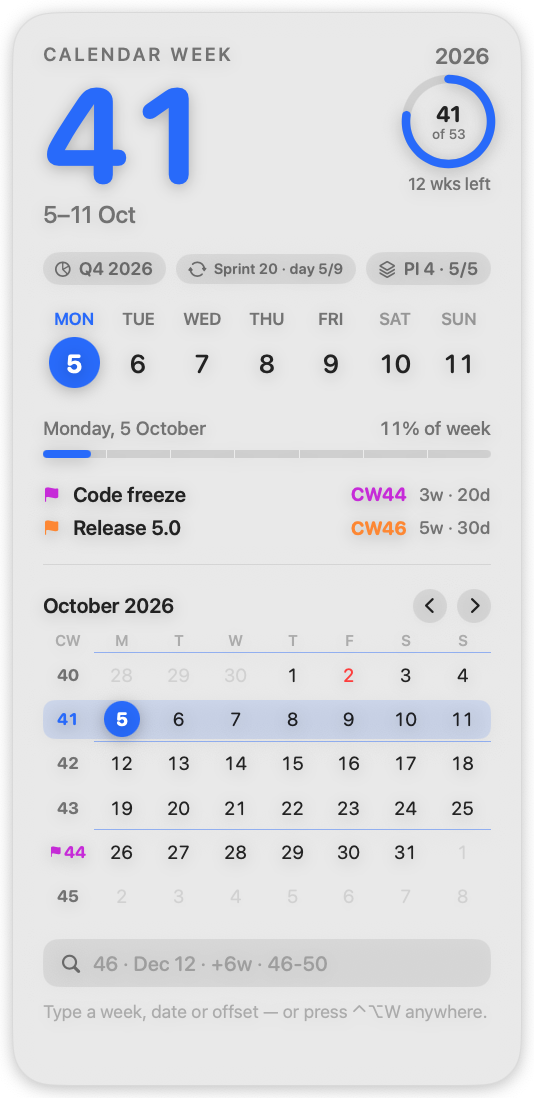
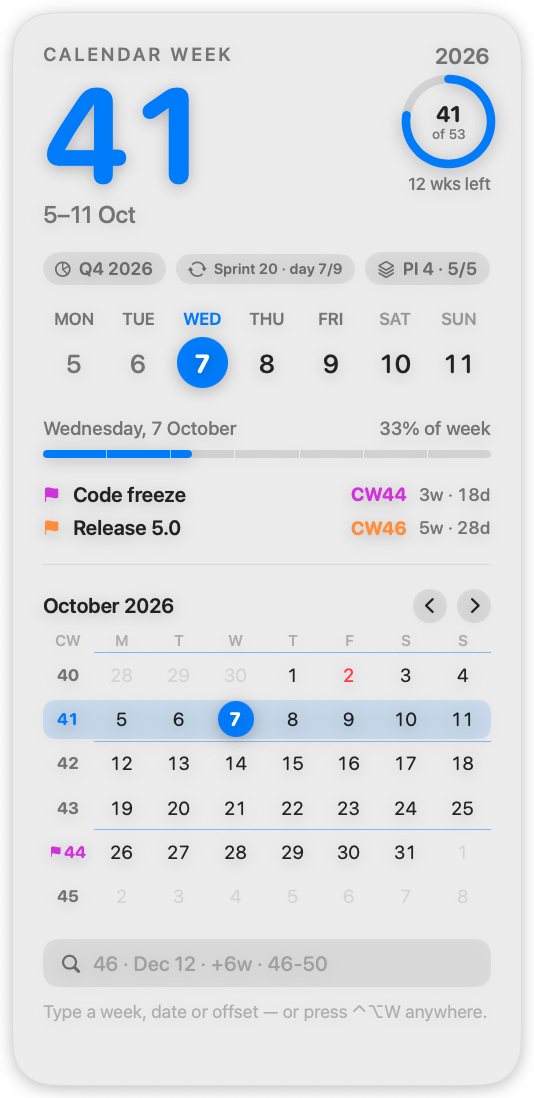
Site: neutral placeholders + og tags; auto-refresh screenshots on release
index.html no longer hard-codes CW41 for crawlers and link previews; JS
fills in the live week. scripts/screenshots.sh re-captures widget and
Quick Finder from the release build with sample data relative to today,
restoring user settings afterwards; ship.sh runs it on every release.

Claude-Session: https://claude.ai/code/session_01NvtfN9p7197Eio1TC2onEc

diff --git a/docs/index.html b/docs/index.html
@@ -1,5 +1,9 @@
 <title>Weekmark</title>
 <meta name="description" content="Weekmark keeps the calendar week on your Mac desktop and answers “when is CW46?” from any app.">
+<meta property="og:title" content="Weekmark — any calendar week, one keystroke away">
+<meta property="og:description" content="A macOS widget and CW lookup for teams that plan in calendar weeks. Free, notarized, no tracking.">
+<meta property="og:image" content="https://rockykusuma.github.io/weekmark/assets/widget.png">
+<meta name="twitter:card" content="summary_large_image">
 <link rel="preconnect" href="https://fonts.googleapis.com">
 <link rel="preconnect" href="https://fonts.gstatic.com" crossorigin>
 <link rel="stylesheet" href="https://fonts.googleapis.com/css2?family=Big+Shoulders+Display:wght@600;800;900&family=Figtree:wght@400;500;600;700&family=JetBrains+Mono:wght@400;600&display=swap">
@@ -204,14 +208,14 @@ footer { padding-block: 40px 56px; color: var(--ink-3); font-size: .85rem; displ
           <p class="eyebrow">Right now it is</p>
           <div class="today">
             <span class="cw-label">CW</span>
-            <span class="cw-big num" id="cwBig">41</span>
+            <span class="cw-big num" id="cwBig">—</span>
             <div class="today-meta">
-              <strong id="cwRange">5–11 Oct</strong>
-              <span id="cwOf">Week 41 of 53</span>
+              <strong id="cwRange">Monday to Sunday</strong>
+              <span id="cwOf">ISO 8601 week number</span>
             </div>
           </div>
           <div class="weekbar" id="weekbar" aria-hidden="true"></div>
-          <div class="weekbar-label"><span id="dayName">Monday</span><span id="weekPct" class="num">10% of the week</span></div>
+          <div class="weekbar-label"><span id="dayName">This week</span><span id="weekPct" class="num"></span></div>
 
           <h1>Any calendar week, one keystroke away.</h1>
           <p class="lede">Weekmark keeps the week number on your Mac desktop and answers “when is CW46?” from any app, with working days, holidays, sprints and milestones included.</p>
@@ -241,7 +245,7 @@ footer { padding-block: 40px 56px; color: var(--ink-3); font-size: .85rem; displ
 <section class="year" aria-labelledby="yearTitle">
   <div class="wrap">
     <div class="year-head">
-      <h2 id="yearTitle">2026 has 53 weeks</h2>
+      <h2 id="yearTitle">Every week of the year</h2>
       <p id="yearSub">Click any week to look it up.</p>
     </div>
     <div class="strip-scroll"><div class="strip" id="strip"></div></div>
@@ -257,7 +261,7 @@ footer { padding-block: 40px 56px; color: var(--ink-3); font-size: .85rem; displ
       <p>Release trains, sprint reviews, “we’ll ship it in CW46”. Weekmark keeps that vocabulary on screen and does the date maths for you.</p>
     </div>
     <div class="showcase">
-      <img class="shot-widget" src="assets/widget.png" alt="The Weekmark widget showing calendar week 41 of 2026, Q4, Sprint 20 day 5 of 9, PI 4, two milestones and an October month grid with week numbers">
+      <img class="shot-widget" src="assets/widget.png" alt="The Weekmark widget showing the calendar week, quarter, sprint and PI chips, upcoming milestones and a month grid with week numbers">
       <div class="features">
         <div class="feature"><span class="tag">⌃⌥W</span><h3>Quick Finder</h3><p>Look up a week, date, range or countdown from any app. Press ⏎ to copy “CW46 (9–15 Nov)” into Slack or Jira.</p></div>
         <div class="feature"><span class="tag">MILESTONES</span><h3>Countdowns that count working days</h3><p>Pin “Release 5.0 → CW46” and see 5 weeks · 30 working days left. Milestone weeks are flagged in the calendar.</p></div>

diff --git a/RELEASING.md b/RELEASING.md
@@ -21,8 +21,11 @@ Add `--dry-run` to see the checks and the plan without changing anything.
 4. **Publishes** the GitHub release `v<version>` with the DMG and your notes.
 5. **Updates the Homebrew tap** ([rockykusuma/homebrew-weekmark](https://github.com/rockykusuma/homebrew-weekmark)):
    version and sha256 in `Casks/weekmark.rb`.
-6. **Pushes the update feed** last, so the download already exists when installed apps are told about it.
-7. **Verifies** the live download (checksum and Gatekeeper) and waits for the feed to list the new version.
+6. **Refreshes the website screenshots** (`scripts/screenshots.sh`) from the new build with sample data
+   dated relative to release day. Your own settings are restored afterwards. Needs Screen Recording permission
+   for your terminal; without it the old screenshots are kept.
+7. **Pushes the update feed** last, so the download already exists when installed apps are told about it.
+8. **Verifies** the live download (checksum and Gatekeeper) and waits for the feed to list the new version.
 
 If a step fails (notarization timeout, network), fix the cause and run the same command again. Finished steps are
 detected and skipped.
@@ -42,6 +45,7 @@ detected and skipped.
 | `.env.local` | `cp .env.local.example .env.local` and fill it in. The comments explain every value |
 | Notarization profile | `xcrun notarytool store-credentials weekmark-notary --apple-id <id> --team-id Y87BZN47C5 --password <app-specific password>` |
 | Sparkle signing key | Restore from your backup: `swift package resolve`, then `.build/artifacts/sparkle/Sparkle/bin/generate_keys --account weekmark -f weekmark-sparkle.key` |
+| Screen Recording permission | System Settings → Privacy & Security → Screen & System Audio Recording → enable your terminal (for screenshots) |
 | Homebrew tap checkout (optional) | `git clone git@github.com:rockykusuma/homebrew-weekmark ../homebrew-weekmark`. Without it, `ship.sh` clones a temporary copy |
 
 ## Troubleshooting
